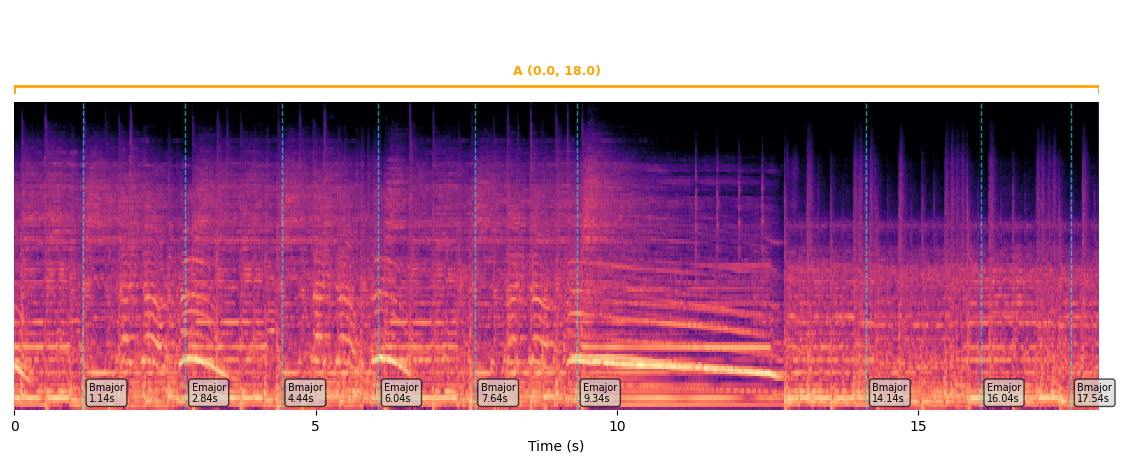
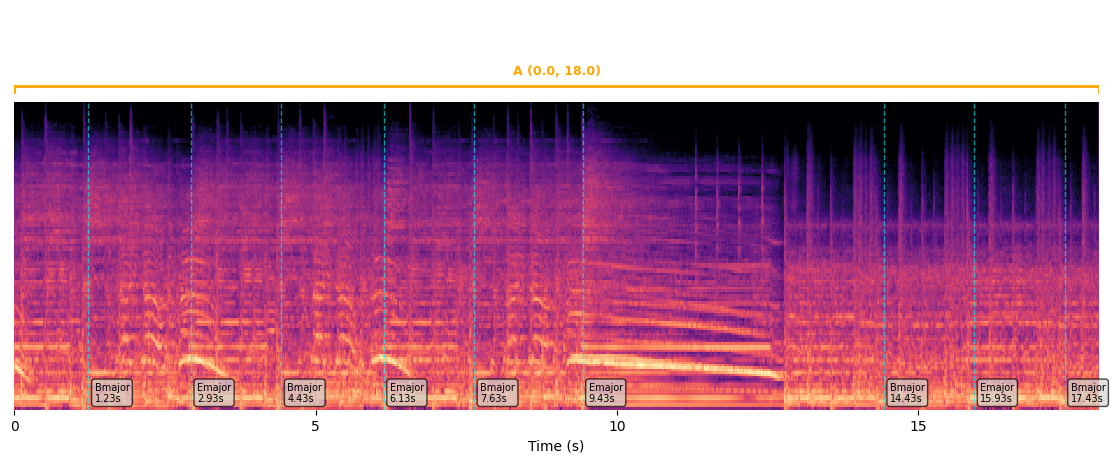
audio4

diff --git a/index.html b/index.html
@@ -87,13 +87,15 @@
 
 <h1>🎵 FiLMu Demo</h1>
 
-<!-- AUDIO 1 -->
+<!-- AUDIO BLOCKS START -->
+<!-- Paste the 4 audio blocks you already have here -->
+<!-- For brevity, only audio4 is shown below -->
 <div class="audio-card">
-  <h2>audio1</h2>
-  <audio id="audio1" controls src="audio/1019_mix_clip.wav"></audio>
+  <h2>audio4</h2>
+  <audio id="audio4" controls src="audio/989872_clip.wav"></audio>
   <div class="progress-container">
-    <img src="images/1019_output.png" class="progress-image">
-    <div class="progress-bar-overlay" id="bar1"
+    <img src="images/989872_output.png" class="progress-image">
+    <div class="progress-bar-overlay" id="bar4"
          style="--bar-left: 1.3%; --bar-top: 19%; --bar-bottom: 78%; --bar-max-width: 98%;">
     </div>
   </div>
@@ -102,45 +104,13 @@
   <div class="caption-box">
     <div class="caption-label">FiLMu</div>
     <div class="caption-content">
-      A: &lt;tempo&gt;132 bpm&lt;/tempo&gt;<br>
-      B: &lt;tempo&gt;132 bpm&lt;/tempo&gt;<br>
-      C: &lt;tempo&gt;88 bpm&lt;/tempo&gt;
+      A: &lt;tempo&gt;84 bpm&lt;/tempo&gt;
     </div>
   </div>
   <div class="caption-box">
     <div class="caption-label">Ground Truth</div>
     <div class="caption-content">
-      A: 132 bpm<br>
-      B: 132 bpm<br>
-      C: 88 bpm
-    </div>
-  </div>
-</div>
-
-<!-- AUDIO 2 -->
-<div class="audio-card">
-  <h2>audio2</h2>
-  <audio id="audio2" controls src="audio/1595_mix_clip.wav"></audio>
-  <div class="progress-container">
-    <img src="images/1595_output.png" class="progress-image">
-    <div class="progress-bar-overlay" id="bar2"
-         style="--bar-left: 1.3%; --bar-top: 19%; --bar-bottom: 78%; --bar-max-width: 98%;">
-    </div>
-  </div>
-
-  <h3 class="section-title">tempo</h3>
-  <div class="caption-box">
-    <div class="caption-label">FiLMu</div>
-    <div class="caption-content">
-      A: &lt;tempo&gt;103 bpm&lt;/tempo&gt;<br>
-      B: &lt;tempo&gt;154 bpm&lt;/tempo&gt;
-    </div>
-  </div>
-  <div class="caption-box">
-    <div class="caption-label">Ground Truth</div>
-    <div class="caption-content">
-      A: 103 bpm<br>
-      B: 155 bpm
+      A: 42 bpm
     </div>
   </div>
 
@@ -148,15 +118,13 @@
   <div class="caption-box">
     <div class="caption-label">FiLMu</div>
     <div class="caption-content">
-      A: &lt;key&gt;Cminor&lt;/key&gt;<br>
-      B: &lt;key&gt;Cmajor&lt;/key&gt;
+      A: &lt;key&gt;C#minor&lt;/key&gt;
     </div>
   </div>
   <div class="caption-box">
     <div class="caption-label">Ground Truth</div>
     <div class="caption-content">
-      A: Cminor<br>
-      B: Cmajor
+      A: C#minor
     </div>
   </div>
 
@@ -164,85 +132,13 @@
   <div class="caption-box">
     <div class="caption-label">FiLMu</div>
     <div class="caption-content">
-      A: &lt;chord&gt;(0, G#major), (0.66, Cminor), (2.99, A#major), (4.16, Fminor), (5.32, G#major), (7.65, Cminor)&lt;/chord&gt;<br>
-      B: &lt;chord&gt;(9.98, Fmajor), (11.54, Dminor), (12.33, Eminor), (13.11, Gmajor), (14.67, Dminor), (16.23, Fmajor), (17.79, Gmajor)&lt;/chord&gt;
+      A: &lt;chord&gt;(1.45, F#minor), (3.15, G#minor), (4.55, C#minor), (7.45, F#minor), (8.55, G#minor), (10.05, C#minor), (12.95, F#minor), (14.75, G#minor), (16.15, C#minor), (17.75, F#minor)&lt;/chord&gt;
     </div>
   </div>
   <div class="caption-box">
     <div class="caption-label">Ground Truth</div>
     <div class="caption-content">
-      A: (0, G#major), (0.66, Cminor), (2.99, A#major), (4.15, Fminor), (5.32, Gminor), (7.65, Cminor)<br>
-      B: (9.98, Fmajor), (11.53, Dminor), (12.3, Eminor), (13.08, Gmajor), (14.62, Dminor), (16.17, Fmajor), (17.72, Gmajor)
-    </div>
-  </div>
-
-  <h3 class="section-title">instrument</h3>
-  <div class="caption-box">
-    <div class="caption-label">FiLMu</div>
-    <div class="caption-content">
-      A: &lt;instrument&gt;Viola, Piano, AcousticGuitar, ElectricBass, Drums&lt;/instrument&gt;<br>
-      B: &lt;instrument&gt;ElectricGuitarLead, Piano, ElectricBass, Drums&lt;/instrument&gt;
-    </div>
-  </div>
-  <div class="caption-box">
-    <div class="caption-label">Ground Truth</div>
-    <div class="caption-content">
-      A: Viola, Piano, AcousticGuitar, ElectricBass, Drums<br>
-      B: ElectricGuitarLead, Piano, ElectricBass, Drums
-    </div>
-  </div>
-</div>
-
-<!-- AUDIO 3 -->
-<div class="audio-card">
-  <h2>audio3</h2>
-  <audio id="audio3" controls src="audio/003477_clip.wav"></audio>
-  <div class="progress-container">
-    <img src="images/003417_output.png" class="progress-image">
-    <div class="progress-bar-overlay" id="bar3"
-         style="--bar-left: 1.3%; --bar-top: 19%; --bar-bottom: 78%; --bar-max-width: 98%;">
-    </div>
-  </div>
-
-  <h3 class="section-title">tempo</h3>
-  <div class="caption-box">
-    <div class="caption-label">FiLMu</div>
-    <div class="caption-content">
-      A: &lt;tempo&gt;153 bpm&lt;/tempo&gt;
-    </div>
-  </div>
-  <div class="caption-box">
-    <div class="caption-label">Ground Truth</div>
-    <div class="caption-content">
-      A: 153 bpm
-    </div>
-  </div>
-
-  <h3 class="section-title">key</h3>
-  <div class="caption-box">
-    <div class="caption-label">FiLMu</div>
-    <div class="caption-content">
-      A: &lt;key&gt;Emajor&lt;/key&gt;
-    </div>
-  </div>
-  <div class="caption-box">
-    <div class="caption-label">Ground Truth</div>
-    <div class="caption-content">
-      A: Emajor
-    </div>
-  </div>
-
-  <h3 class="section-title">chord</h3>
-  <div class="caption-box">
-    <div class="caption-label">FiLMu</div>
-    <div class="caption-content">
-      A: &lt;chord&gt;(1.14, Bmajor), (2.84, Emajor), (4.44, Bmajor), (6.04, Emajor), (7.64, Bmajor), (9.34, Emajor), (14.14, Bmajor), (16.04, Emajor), (17.54, Bmajor)&lt;/chord&gt;
-    </div>
-  </div>
-  <div class="caption-box">
-    <div class="caption-label">Ground Truth</div>
-    <div class="caption-content">
-      A: (1.23, Bmajor), (2.93, Emajor), (4.43, Bmajor), (6.13, Emajor), (7.63, Bmajor), (9.43, Emajor), (14.43, Bmajor), (15.93, Emajor), (17.43, Bmajor)
+      A: (1.76, F#minor), (3.06, G#minor), (4.46, C#minor), (7.36, F#minor), (8.76, G#minor), (10.16, C#minor), (13.06, F#minor), (14.56, G#minor), (15.86, C#minor)
     </div>
   </div>
 
@@ -250,16 +146,32 @@
   <div class="caption-box">
     <div class="caption-label">FiLMu</div>
     <div class="caption-content">
-      A: &lt;genre&gt;['Rock', 'Punk', 'Garage']&lt;/genre&gt;
+      A: &lt;genre&gt;['electronic', 'pop', 'hiphop']&lt;/genre&gt;
     </div>
   </div>
   <div class="caption-box">
     <div class="caption-label">Ground Truth</div>
     <div class="caption-content">
-      A: ['Rock', 'Punk', 'Power-Pop']
+      A: ['electronic', 'pop', 'hiphop']
+    </div>
+  </div>
+
+  <h3 class="section-title">instrument</h3>
+  <div class="caption-box">
+    <div class="caption-label">FiLMu</div>
+    <div class="caption-content">
+      A: &lt;instrument&gt;drums, keyboard&lt;/instrument&gt;
+    </div>
+  </div>
+  <div class="caption-box">
+    <div class="caption-label">Ground Truth</div>
+    <div class="caption-content">
+      A: drums, keyboard
     </div>
   </div>
 </div>
+
+<!-- AUDIO BLOCKS END -->
 
 <script>
 function addProgressTracking(audioId, barId) {
@@ -277,6 +189,7 @@ function addProgressTracking(audioId, barId) {
 addProgressTracking("audio1", "bar1");
 addProgressTracking("audio2", "bar2");
 addProgressTracking("audio3", "bar3");
+addProgressTracking("audio4", "bar4");
 </script>
 
 </body>
